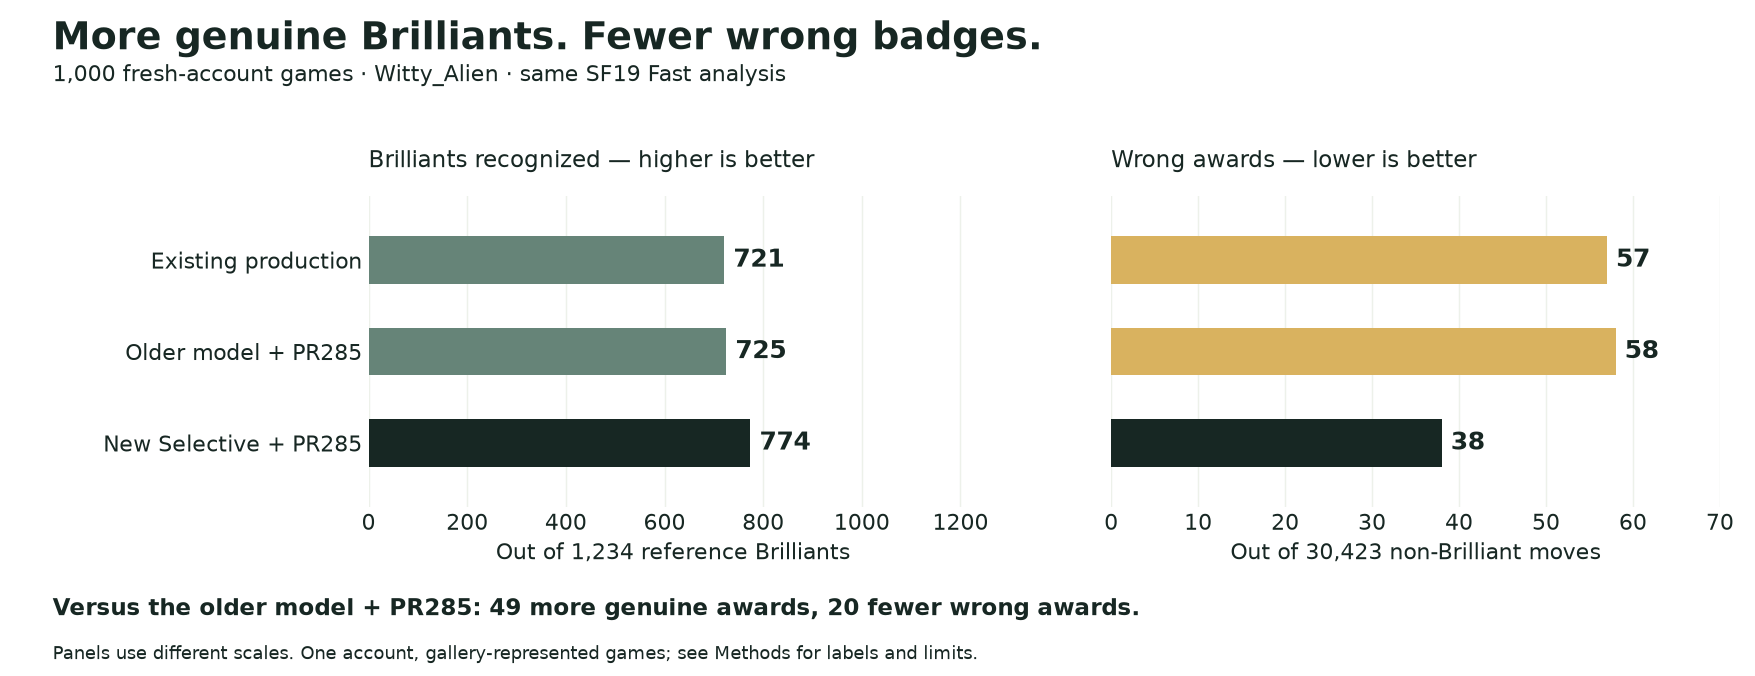
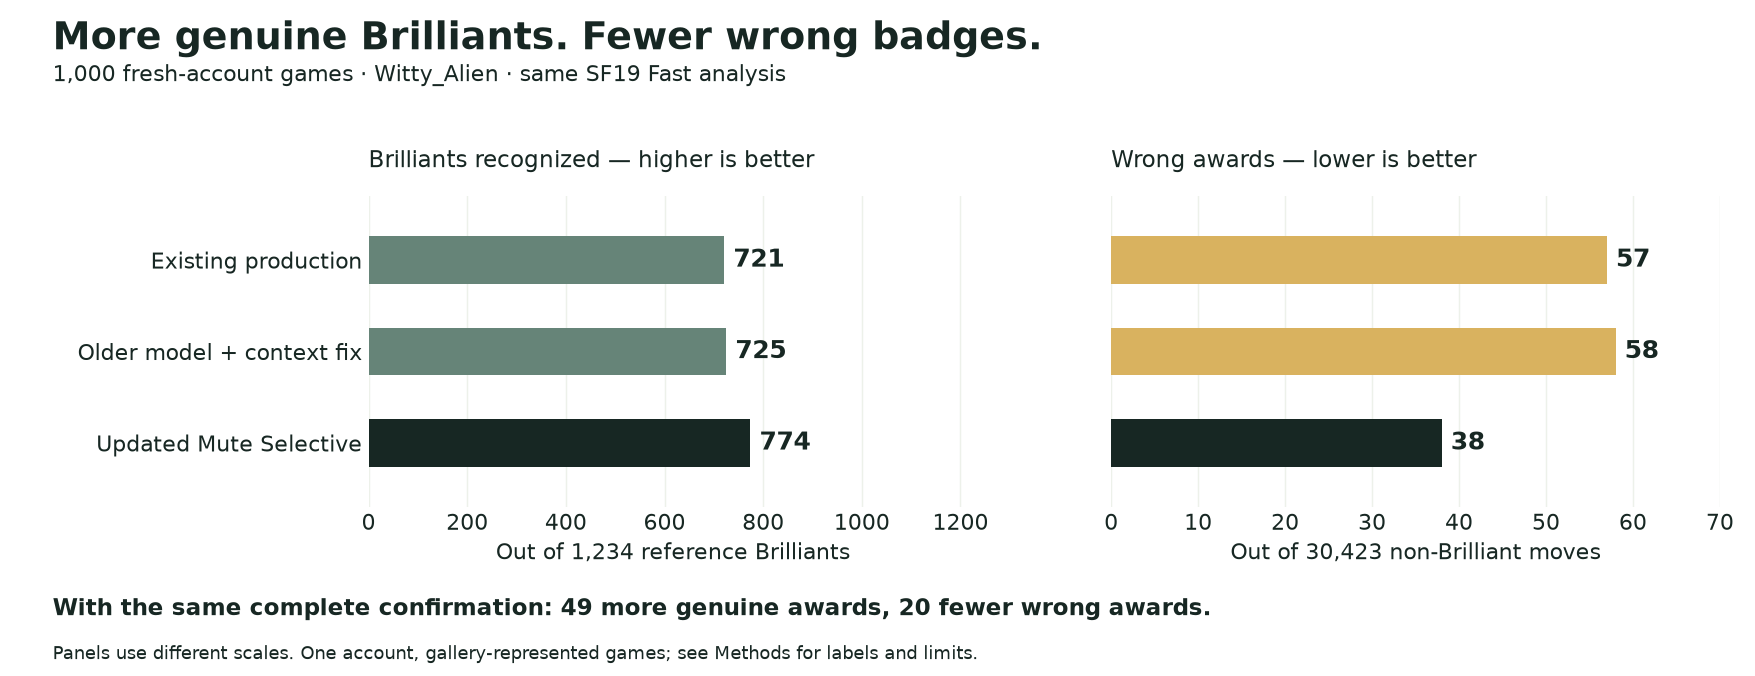
Explain complete confirmation without PR shorthand

Changed region(s): [[0.0308, 0.8698, 0.6769, 0.932], [0.0615, 0.6213, 0.2154, 0.6834], [0.0308, 0.497, 0.2154, 0.5592]]

diff --git a/studies/brilliant-moves/selective-update-figure.py b/studies/brilliant-moves/selective-update-figure.py
@@ -10,7 +10,7 @@ import matplotlib.pyplot as plt
 ROOT = Path(__file__).resolve().parent
 DATA = json.loads((ROOT/'data/selective-update-2026-11-06.json').read_text())
 KEYS = ['production', 'pr285', 'selective']
-LABELS = ['Existing production', 'Older model + PR285', 'New Selective + PR285']
+LABELS = ['Existing production', 'Older model + context fix', 'Updated Mute Selective']
 INK, MOSS, GOLD, PALE = '#172723', '#668478', '#D9B25F', '#EDF1EA'
 plt.rcParams.update({'font.family': 'DejaVu Sans', 'font.size': 12, 'svg.fonttype': 'none'})
 fig, axes = plt.subplots(1, 2, figsize=(13.5, 5.2), dpi=130)
@@ -34,7 +34,7 @@ for ax, field, title, limit, color, denominator in zip(axes, ['TP', 'FP'],
     ax.set_axisbelow(True)
     for spine in ax.spines.values():
         spine.set_visible(False)
-fig.text(.03, .09, 'Versus the older model + PR285: 49 more genuine awards, 20 fewer wrong awards.',
+fig.text(.03, .09, 'With the same complete confirmation: 49 more genuine awards, 20 fewer wrong awards.',
          color=INK, weight='bold', fontsize=13)
 fig.text(.03, .025, 'Panels use different scales. One account, gallery-represented games; see Methods for labels and limits.',
          color=INK, fontsize=10)

diff --git a/studies/brilliant-moves/REPORT.md b/studies/brilliant-moves/REPORT.md
@@ -52,7 +52,7 @@ Other methods found more Brilliants but gave too many undeserved badges to justi
 
 ## November 6, 2026 addendum: more Brilliants, fewer wrong badges
 
-**Our recommendation is now New Selective: the updated forest at a 0.83 cutoff, together with PR285’s complete-window confirmation fix.** The proposed update belongs in the draft PR285; it has not been deployed.
+**We recommend the updated Mute Selective forest at a 0.83 cutoff, together with complete confirmation.** This context fix preserves the earlier position’s evidence when the engine checks an award again. The update is still a draft; it has not been deployed.
 
 The updated forest was trained on **6,293 labeled moves**, with improved tree settings and a fixed cutoff selected through grouped development comparisons. It keeps the basic chess checks and position features. The model was frozen before testing on a different account. The chosen forest has 128 trees. More generous settings recognized more Brilliants but added too many wrong badges for our preferred tradeoff.
 
@@ -62,20 +62,20 @@ The new model still runs locally in your browser. It is trained ahead of time; i
 
 We checked **1,000 games from Witty_Alien**, an account outside the model’s development set. No Witty_Alien examples were used to train the model or adjust its cutoff. All three versions analyzed the same complete games, including both players’ moves; the scores below count only Witty_Alien’s moves.
 
-![New Selective recognizes 774 Brilliants with 38 wrong awards; the older model with PR285 recognizes 725 with 58 wrong awards.](figures/selective-update-2026-11-06.png)
+![Updated Mute Selective recognizes 774 Brilliants with 38 wrong awards; the older model with complete confirmation recognizes 725 with 58 wrong awards.](figures/selective-update-2026-11-06.png)
 
 | On the same 1,000 games | Genuine Brilliants recognized | Wrong Brilliant awards |
 | --- | ---: | ---: |
 | Existing production version | 721 / 1,234 | 57 / 30,423 |
-| Older model with PR285 | 725 / 1,234 | 58 / 30,423 |
-| **New Selective with PR285** | **774 / 1,234** | **38 / 30,423** |
+| Older model + complete confirmation | 725 / 1,234 | 58 / 30,423 |
+| **Updated Mute Selective + complete confirmation** | **774 / 1,234** | **38 / 30,423** |
 
-That is **62.7% of the reference Brilliants recognized**, with wrong awards on **0.125% of the non-Brilliant moves**. Compared with the older model using the same confirmation fix, New Selective found **49 more genuine Brilliants and gave 20 fewer wrong badges—about 34% fewer wrong awards**.
+That is **62.7% of the reference Brilliants recognized**, with wrong awards on **0.125% of the non-Brilliant moves**. Compared with the older model using the same confirmation fix, the updated Mute Selective model found **49 more genuine Brilliants and gave 20 fewer wrong badges—about 34% fewer wrong awards**.
 
 These are net improvements, not perfect agreement on every move. Against that same baseline, the new version gained 95 genuine awards and lost 46; it removed 27 wrong awards and added 7. It still missed **460** reference Brilliants.
 
 The earlier En Croissant comparison above remains a separate historical result. It used saved SF18 research analysis; this update uses the site’s SF19 Fast path. **En Croissant was not tested on this Witty_Alien sample**, so the two studies should not be combined into a new head-to-head claim.
 
-This is encouraging evidence for adopting **New Selective with PR285**, while keeping wrong awards low as we work toward broader coverage. It is one fresh account and a sample of games represented in its Brilliant gallery, not a promise of the same accuracy for every player. One previously seen position was excluded. [Methods and evidence](METHODS.md#november-6-2026-update-frozen-forest-and-fresh-account) explain the labels, sampling and limits.
+This is encouraging evidence for adopting **Updated Mute Selective + complete confirmation**, while keeping wrong awards low as we work toward broader coverage. It is one fresh account and a sample of games represented in its Brilliant gallery, not a promise of the same accuracy for every player. One previously seen position was excluded. [Methods and evidence](METHODS.md#november-6-2026-update-frozen-forest-and-fresh-account) explain the labels, sampling and limits.
 
 Read the [OpenBrillyFinder study](https://github.com/Dash1971/open-brilly-finder/blob/main/studies/brilliant-selective-2026-11-06/REPORT.md) for the experiment and [reproduction material](https://github.com/Dash1971/open-brilly-finder/tree/main/studies/brilliant-selective-2026-11-06/). The [combined seven-account PGN](https://github.com/Dash1971/open-brilly-finder/blob/main/studies/brilliant-selective-2026-11-06/data/seven-accounts-last-12-months-chesscom-brilliants.pgn) contains **7,019 games and 8,298 Brilliant annotations** from the last-year galleries used across this research. It is a source corpus, not an additional independent test.

diff --git a/README.md b/README.md
@@ -4,11 +4,11 @@ Readable studies, visual explanations and the evidence behind Mute Chess's desig
 
 ## Brilliant moves: more genuine ideas, fewer undeserved badges
 
-![New Selective recognizes more Brilliants and gives fewer wrong awards on 1,000 fresh-account games.](studies/brilliant-moves/figures/selective-update-2026-11-06.png)
+![Updated Mute Selective recognizes more Brilliants and gives fewer wrong awards on 1,000 fresh-account games.](studies/brilliant-moves/figures/selective-update-2026-11-06.png)
 
 **[Read: Making Brilliant badges feel at home on Mute Chess →](studies/brilliant-moves/REPORT.md#november-6-2026-addendum-more-brilliants-fewer-wrong-badges)**
 
-Our November 6 recommendation is **New Selective with PR285’s complete-window confirmation fix**. In 1,000 fresh-account games, it recognized **774 of 1,234 reference Brilliants** and gave **38 wrong awards among 30,423 non-Brilliant moves**. Compared with the older model using the same fix, that is **49 more genuine Brilliants and 20 fewer wrong badges**, about a 34% reduction in wrong awards.
+Our November 6 recommendation is **the updated Mute Selective model with complete confirmation**. The context fix preserves evidence from the earlier position when checking an award again. In 1,000 fresh-account games, it recognized **774 of 1,234 reference Brilliants** and gave **38 wrong awards among 30,423 non-Brilliant moves**. Compared with the older model using the same fix, that is **49 more genuine Brilliants and 20 fewer wrong badges**, about a 34% reduction in wrong awards.
 
 We trained the updated forest on more labeled examples and improved its tree settings, then froze it before this test. Your browser runs the decision trees locally alongside Stockfish and the basic chess checks. It does not use a neural network or remote classification call, and it does not learn during play. **The new recommendation is not yet deployed.**
 

diff --git a/studies/brilliant-moves/README.md b/studies/brilliant-moves/README.md
@@ -1,6 +1,6 @@
 # Mute Selective: algorithm and updates
 
-**Current recommendation, November 6, 2026:** New Selective, the frozen 128-tree forest at **0.83** in both windows, with **PR285’s complete-window confirmation fix**. It recognized 774 of 1,234 reference Brilliants and gave 38 wrong awards among 30,423 non-Brilliant moves in 1,000 fresh-account games. This update is **not yet deployed**. [Reader addendum](REPORT.md#november-6-2026-addendum-more-brilliants-fewer-wrong-badges) · [Updated methods and exact model](METHODS.md#november-6-2026-update-frozen-forest-and-fresh-account)
+**Current recommendation, November 6, 2026:** Updated Mute Selective, the frozen 128-tree forest at **0.83** in both windows, with **complete confirmation**, which preserves the earlier position’s evidence during an extra engine check. It recognized 774 of 1,234 reference Brilliants and gave 38 wrong awards among 30,423 non-Brilliant moves in 1,000 fresh-account games. This update is **not yet deployed**. [Reader addendum](REPORT.md#november-6-2026-addendum-more-brilliants-fewer-wrong-badges) · [Updated methods and exact model](METHODS.md#november-6-2026-update-frozen-forest-and-fresh-account)
 
 [New study and reproduction material](https://github.com/Dash1971/open-brilly-finder/tree/main/studies/brilliant-selective-2026-11-06/) · [Seven-account source PGN](https://github.com/Dash1971/open-brilly-finder/blob/main/studies/brilliant-selective-2026-11-06/data/seven-accounts-last-12-months-chesscom-brilliants.pgn)
 
